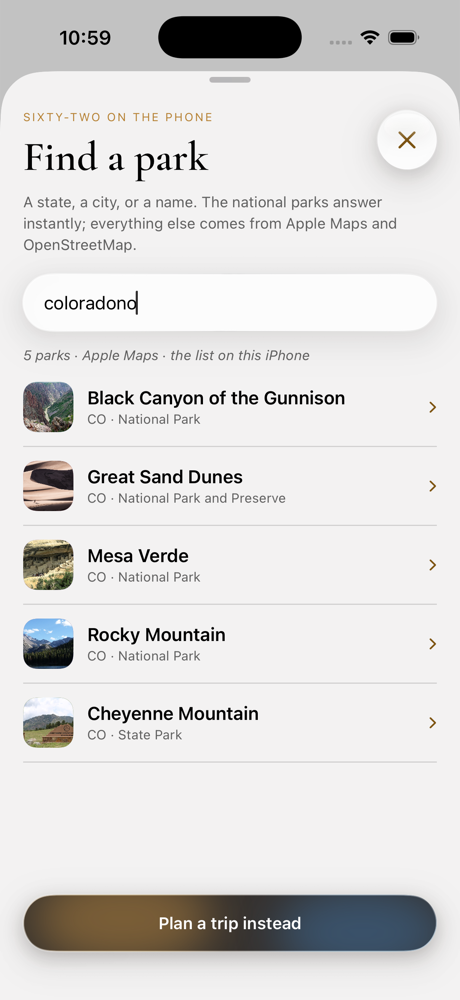
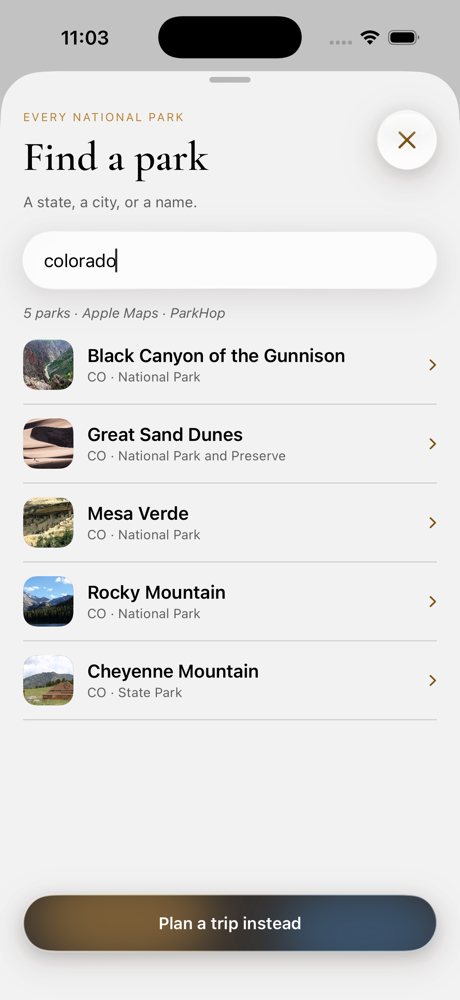
copy: stop telling people where the data is kept (v2.13.4)
The app kept explaining its own plumbing: sixty-two parks "on the phone",
"the field library on this iPhone", megabytes of photographs against a
ceiling, packs on this iPhone, trips living in iCloud, a state-park table
that needs "no network". None of that is the reader's problem. Where a
record came from is worth saying — NPS, Apple Maps, OpenStreetMap — but
which disc it is sitting on is not.

All of it is gone, along with the storage readouts and the clear control
in Profile, and with the internal name "curated field library", which was
a filename wearing a coat.

Kept on purpose: the near-you brief still says it is written on the phone
by Apple Intelligence and that nothing leaves it. That is not bookkeeping
— it is why the feature is safe to use.

diff --git a/Waypost/Features/Profile/ProfileScreen.swift b/Waypost/Features/Profile/ProfileScreen.swift
@@ -4,20 +4,6 @@ import SwiftUI
 struct ProfileScreen: View {
     @Environment(AppState.self) private var app
 
-    /// Measured off the disk rather than estimated: this is the one storage number on
-    /// the screen that is a fact.
-    @State private var photoBytes = 0
-
-    private var photoStorageLine: String {
-        guard photoBytes > 0 else { return "No park photographs stored yet" }
-        let megabytes = Double(photoBytes) / 1024 / 1024
-        let cap = PhotoStore.capBytes / 1024 / 1024
-        return String(format: "%.0f MB of park photographs · %d MB ceiling", megabytes, cap)
-    }
-
-    private func measurePhotos() async {
-        photoBytes = await PhotoStore.shared.bytesUsed
-    }
 
     var body: some View {
         @Bindable var app = app
@@ -63,37 +49,7 @@ struct ProfileScreen: View {
                             packRow(park)
                             if index < app.library.orderedParks.count - 1 { Hairline() }
                         }
-                        Hairline()
-                        // The pack figure is the curated library's own; the photograph
-                        // figure is measured off the disk, because that one is real.
-                        VStack(alignment: .leading, spacing: 6) {
-                            Text("\(app.packStorageMB) MB of park packs on this iPhone")
-                                .font(WP.bodyItalic(11.5)).opacity(0.6)
-                            HStack(spacing: 10) {
-                                Text(photoStorageLine)
-                                    .font(WP.bodyItalic(11.5)).opacity(0.6)
-                                Spacer(minLength: 0)
-                                if photoBytes > 0 {
-                                    Button {
-                                        Task {
-                                            await PhotoStore.shared.clear()
-                                            await measurePhotos()
-                                            app.show("Photographs cleared")
-                                        }
-                                    } label: {
-                                        Text("Clear")
-                                            .font(WP.headingUI(12))
-                                            .padding(.horizontal, 12)
-                                            .frame(minHeight: 28)
-                                            .glassControl(shadow: false)
-                                    }
-                                    .buttonStyle(PressStyle(scale: 0.95))
-                                }
-                            }
-                        }
-                        .frame(maxWidth: .infinity, alignment: .leading)
-                        .padding(.horizontal, 14)
-                        .padding(.vertical, 11)
+
                     }
 
                     sectionLabel("Travel defaults")
@@ -120,7 +76,7 @@ struct ProfileScreen: View {
                     Grouped {
                         HStack(spacing: 10) {
                             Circle().fill(WP.live).frame(width: 7, height: 7)
-                            Text("Curated field library").font(WP.body(14))
+                            Text("Park records").font(WP.body(14))
                             Spacer(minLength: 0)
                             Text("NPS · Open-Meteo · Recreation.gov")
                                 .font(WP.body(11.5)).opacity(0.55).lineLimit(1)
@@ -142,7 +98,7 @@ struct ProfileScreen: View {
                         .padding(.horizontal, 14).padding(.vertical, 13)
                     }
 
-                    Text("Every panel says where its rows came from. What you are reading now is the curated field library that ships with ParkHop — the live sources are being re-wired onto these screens, and until they are, nothing here claims to be today's measurement.")
+                    Text("Every panel says where its rows came from. Where a source has not answered, the panel says so rather than filling the gap.")
                         .font(WP.bodyItalic(11.5)).opacity(0.55).lineSpacing(3)
                         .padding(.top, 22)
 
@@ -158,7 +114,6 @@ struct ProfileScreen: View {
             .scrollIndicators(.hidden)
             .captureScrollPosition()
         }
-        .task { await measurePhotos() }
     }
 
     private var identity: some View {

diff --git a/Waypost/Features/Park/ParkScreen.swift b/Waypost/Features/Park/ParkScreen.swift
@@ -279,7 +279,7 @@ struct OverviewSection: View {
     /// of the live services filled in the rest.
     private var overviewSource: String {
         let base = park.source == nil
-            ? "Overview from the curated field library."
+            ? "Overview from ParkHop's own records."
             : "Overview from \(park.sourceName) — fees, hours and closures come from the park itself."
         return base + " Charging, fuel and shops from Apple Maps, measured from the park's own coordinates."
     }
@@ -383,10 +383,10 @@ struct WeatherSection: View {
 
     private var sourceLine: String {
         if let live {
-            return "Today at this park, from \(live.source). The curated August normals are underneath it for the eight parks that ship with the app."
+            return "Today at this park, from \(live.source)."
         }
         if park.wx.isPublished || park.source == nil {
-            return "August normals from the curated library. The live forecast is being fetched; when it answers, this panel says so."
+            return "August normals. The live forecast is being fetched; when it answers, this panel says so."
         }
         return "\(park.sourceName) does not publish weather. Open-Meteo is being asked for this park's forecast — until it answers there is nothing here to read."
     }
@@ -464,9 +464,9 @@ struct StaySection: View {
     private var staySource: String {
         (park.camping.isEmpty
             ? "No in-park campground list ships for this park."
-            : "In-park campgrounds and lodges from the curated field library.")
+            : "In-park campgrounds and lodges from ParkHop's own records.")
         + " Everything under them is Apple Maps, within thirty miles of the park, nearest first."
-        + " Recreation.gov availability for your own dates is not wired in — it blocks callers that are not a browser, and a guess is worse than a gap."
+        + " Availability for your own nights is not published to this app — confirm with the campground."
     }
 
     private func chipBackground(_ camp: CuratedCamp) -> Color {
@@ -515,7 +515,7 @@ struct PlansSection: View {
                 .overlay(RoundedRectangle(cornerRadius: 14).stroke(WP.divider, lineWidth: 1))
             }
 
-            SourceLine("Day plans — curated for this park, written around the light and the crowds.")
+            SourceLine("Day plans written around the light and the crowds.")
         }
     }
 }
@@ -563,7 +563,7 @@ struct NearbySection: View {
                 .buttonStyle(PressStyle(scale: 0.99))
             }
 
-            SourceLine("Nearby units — curated. The NPS registry lookup within 160 miles is being re-wired onto this list.")
+            SourceLine("Passport units near this park.")
                 .padding(.top, 16)
         }
     }

diff --git a/Waypost/Features/Discover/DiscoverScreen.swift b/Waypost/Features/Discover/DiscoverScreen.swift
@@ -51,7 +51,7 @@ struct DiscoverScreen: View {
         let plural = count == 1 ? "park" : "parks"
         if q.isEmpty {
             let tail = app.discoverChip == "all"
-                ? "the field library on this iPhone"
+                ? "the ParkHop catalogue"
                 : app.discoverChip.lowercased() + " country"
             return "\(count) \(plural) · \(tail)"
         }
@@ -62,7 +62,7 @@ struct DiscoverScreen: View {
             return why
         case .idle, .ready:
             let sources = app.directory.answered.map(\.rawValue).sorted().joined(separator: " · ")
-            let from = sources.isEmpty ? "the field library on this iPhone" : sources
+            let from = sources.isEmpty ? "the ParkHop catalogue" : sources
             return "\(count) \(plural) matching “\(q)” · \(from)"
         }
     }
@@ -274,7 +274,7 @@ struct NothingByThatName: View {
     var body: some View {
         VStack(alignment: .leading, spacing: 0) {
             Text("Nothing by that name.").font(WP.display(22))
-            Text("Sixty-three parks and 470 units are in the catalogue; this build carries eight of them. State parks are searched separately — and on this phone.")
+            Text("Nothing in the national-park catalogue matches those words. State parks are searched separately.")
                 .font(WP.body(13)).lineSpacing(3).opacity(0.75).padding(.top, 8)
                 .fixedSize(horizontal: false, vertical: true)
             Button {
@@ -327,11 +327,11 @@ struct StateParkList: View {
         VStack(alignment: .leading, spacing: 0) {
             HStack(spacing: 7) {
                 Circle().fill(WP.live).frame(width: 6, height: 6)
-                Text("On this phone".uppercased())
+                Text("State parks".uppercased())
                     .font(WP.body(10)).tracking(1.3)
                     .foregroundStyle(Color(oklch: 0.40, 0.10, 150))
                 Rectangle().fill(WP.divider).frame(height: 1)
-                Text("470 units · no network")
+                Text("470 units")
                     .font(WP.bodyItalic(10.5)).opacity(0.5)
             }
             .padding(.bottom, 12)

diff --git a/Waypost/Models/NationalParks.swift b/Waypost/Models/NationalParks.swift
@@ -72,14 +72,14 @@ extension CuratedPark {
             state: park.state,
             lat: park.lat,
             lon: park.lon,
-            tag: "On this iPhone. Fees, hours and closures come from the park.",
+            tag: "Fees, hours and closures come from the park.",
             gw: "",
             region: CuratedPark.region(for: park.full),
             crowd: park.designation,
-            fee: "Not published in the on-device list",
-            hours: "Not published in the on-device list",
+            fee: "Not published",
+            hours: "Not published",
             res: false,
-            resNote: "Entry reservations are not carried on the phone. Check with the park before you travel.",
+            resNote: "Entry reservations are not listed here. Check with the park before you travel.",
             c: CuratedPark.palette(for: park.code),
             pack: "Not downloaded",
             wx: .unpublished,

diff --git a/Waypost/Features/Today/QuickSearchSheet.swift b/Waypost/Features/Today/QuickSearchSheet.swift
@@ -96,7 +96,7 @@ struct QuickSearchSheet: View {
         VStack(alignment: .leading, spacing: 0) {
             HStack(alignment: .top) {
                 VStack(alignment: .leading, spacing: 7) {
-                    Kicker(text: "Sixty-two on the phone")
+                    Kicker(text: "Every national park")
                     Text("Find a park")
                         .font(WP.display(38))
                         .lineLimit(1)
@@ -109,7 +109,7 @@ struct QuickSearchSheet: View {
                     .accessibilityLabel("Close")
             }
 
-            Text("A state, a city, or a name. The national parks answer instantly; everything else comes from Apple Maps and OpenStreetMap.")
+            Text("A state, a city, or a name.")
                 .font(WP.body(13)).opacity(0.6).lineSpacing(3)
                 .fixedSize(horizontal: false, vertical: true)
                 .padding(.top, 10)

diff --git a/Waypost/Features/Trips/TripsScreen.swift b/Waypost/Features/Trips/TripsScreen.swift
@@ -75,7 +75,7 @@ struct TripsScreen: View {
                         }
                     }
 
-                    Text("Trips live on this iPhone and in iCloud. A shared trip opens read-only for whoever you send it to.")
+                    Text("A shared trip opens read-only for whoever you send it to.")
                         .font(WP.bodyItalic(11.5))
                         .lineSpacing(3)
                         .opacity(0.5)
@@ -170,7 +170,7 @@ struct TripCard: View {
             Button("Remove trip", role: .destructive) { app.deleteTrip(trip.id) }
             Button("Keep it", role: .cancel) { }
         } message: {
-            Text("\(trip.title) and its day plans come off this iPhone. This cannot be undone.")
+            Text("\(trip.title) and its day plans are removed. This cannot be undone.")
         }
     }
 

diff --git a/Waypost/Services/ParkDirectory.swift b/Waypost/Services/ParkDirectory.swift
@@ -252,9 +252,9 @@ final class ParkDirectory {
         } else if let why = failures.failures["protected areas (Overpass)"]
                     ?? failures.failures["place lookup (Nominatim)"]
                     ?? failures.failures.values.first {
-            phase = .unanswered("No source answered — \(why). The parks already on this iPhone are still here.")
+            phase = .unanswered("No source answered — \(why).")
         } else {
-            phase = .unanswered("No source answered. The parks already on this iPhone are still here.")
+            phase = .unanswered("No source answered.")
         }
     }
 

diff --git a/Waypost/Features/Trips/TripDetailScreen.swift b/Waypost/Features/Trips/TripDetailScreen.swift
@@ -361,7 +361,7 @@ struct TripDetailScreen: View {
                     }
                 }
             }
-            SourceLine("Stays — curated. Live availability for your nights arrives with the data re-wire.")
+            SourceLine("Availability for your own nights is not published to this app — confirm with the campground.")
         }
     }
 }

diff --git a/Waypost/Models/Curated.swift b/Waypost/Models/Curated.swift
@@ -212,7 +212,7 @@ enum ParkDesignation {
 /// Where a park record came from.
 enum CatalogueSource: String, Decodable, Hashable {
     case nps = "NPS"
-    case onDevice = "the list on this iPhone"
+    case onDevice = "ParkHop"
     case appleMaps = "Apple Maps"
     case openStreetMap = "OpenStreetMap"
     case curated = "the curated library"

diff --git a/docs/changed.v.1/README.md b/docs/changed.v.1/README.md
@@ -136,3 +136,34 @@ Same sheet as the home screen's — a state, a city or a park name — with "Pla
 instead" at the bottom. **B1.1.2**.
 
 The two invented trips are gone from the code, not just from the view.
+
+
+---
+
+# Storage and plumbing, out of the copy
+
+The app was telling people where its data lived, which is the app's business and not
+theirs. Every mention is gone.
+
+| Where | Was | Now |
+|---|---|---|
+| Find a park | "Sixty-two on the phone" | "Every national park" |
+| Find a park | "The national parks answer instantly; everything else comes from Apple Maps and OpenStreetMap." | "A state, a city, or a name." |
+| Discover, source line | "the field library on this iPhone" | "the ParkHop catalogue" |
+| Discover, nothing found | "…this build carries eight of them. State parks are searched separately — and on this phone." | "Nothing in the national-park catalogue matches those words. State parks are searched separately." |
+| State parks | "On this phone · 470 units · no network" | "State parks · 470 units" |
+| Profile | "25 MB of park photographs · 80 MB ceiling", "112 MB of park packs on this iPhone", and a Clear control | removed |
+| Profile | "Curated field library" | "Park records" |
+| Trips | "Trips live on this iPhone and in iCloud." | "A shared trip opens read-only for whoever you send it to." |
+| Trips, delete | "…come off this iPhone." | "…are removed." |
+| Park, several | "from the curated field library", "the eight parks that ship with the app" | "from ParkHop's own records", or nothing |
+| Park, stay | "Recreation.gov … blocks callers that are not a browser" | "Availability for your own nights is not published to this app — confirm with the campground." |
+| A live park | "On this iPhone. Fees, hours…", "Not published in the on-device list" | "Fees, hours…", "Not published" |
+
+**One thing deliberately kept.** The near-you brief still says it is written on the phone
+by Apple Intelligence and that nothing leaves it. That is not storage bookkeeping — it is
+the reason the feature is safe to use, and the sort of thing people are right to want
+stated. Say the word and it goes too.
+
+Recaptured for this: **A1.1.1**, **A1.1.2**, **B1.1.1**, and — outside changed.v.1's
+usual scope, because the copy appears there too — **C3.1** and **F1.2**.
